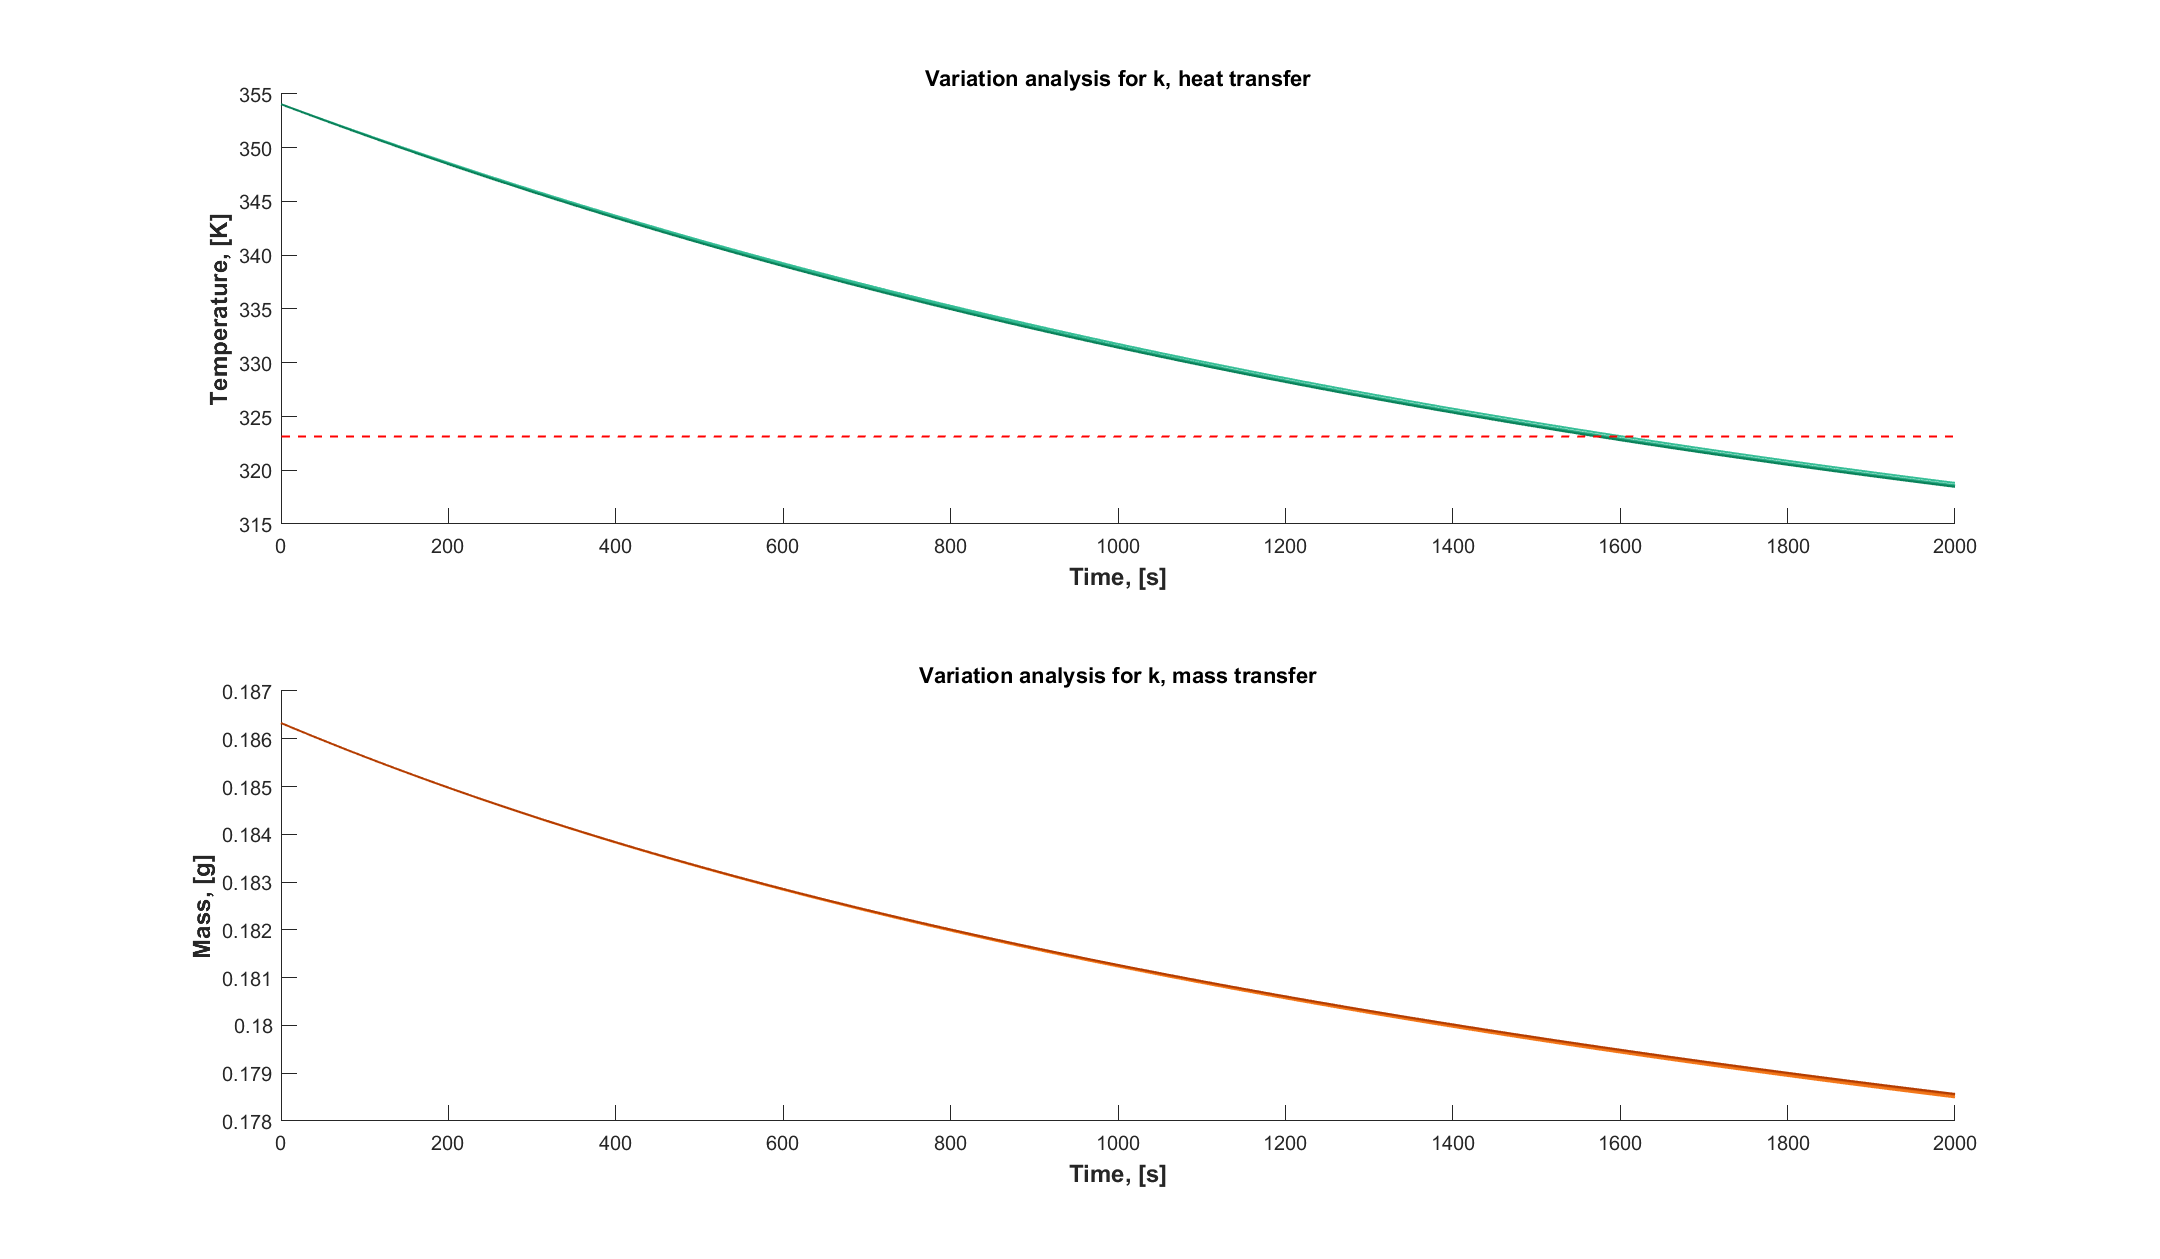
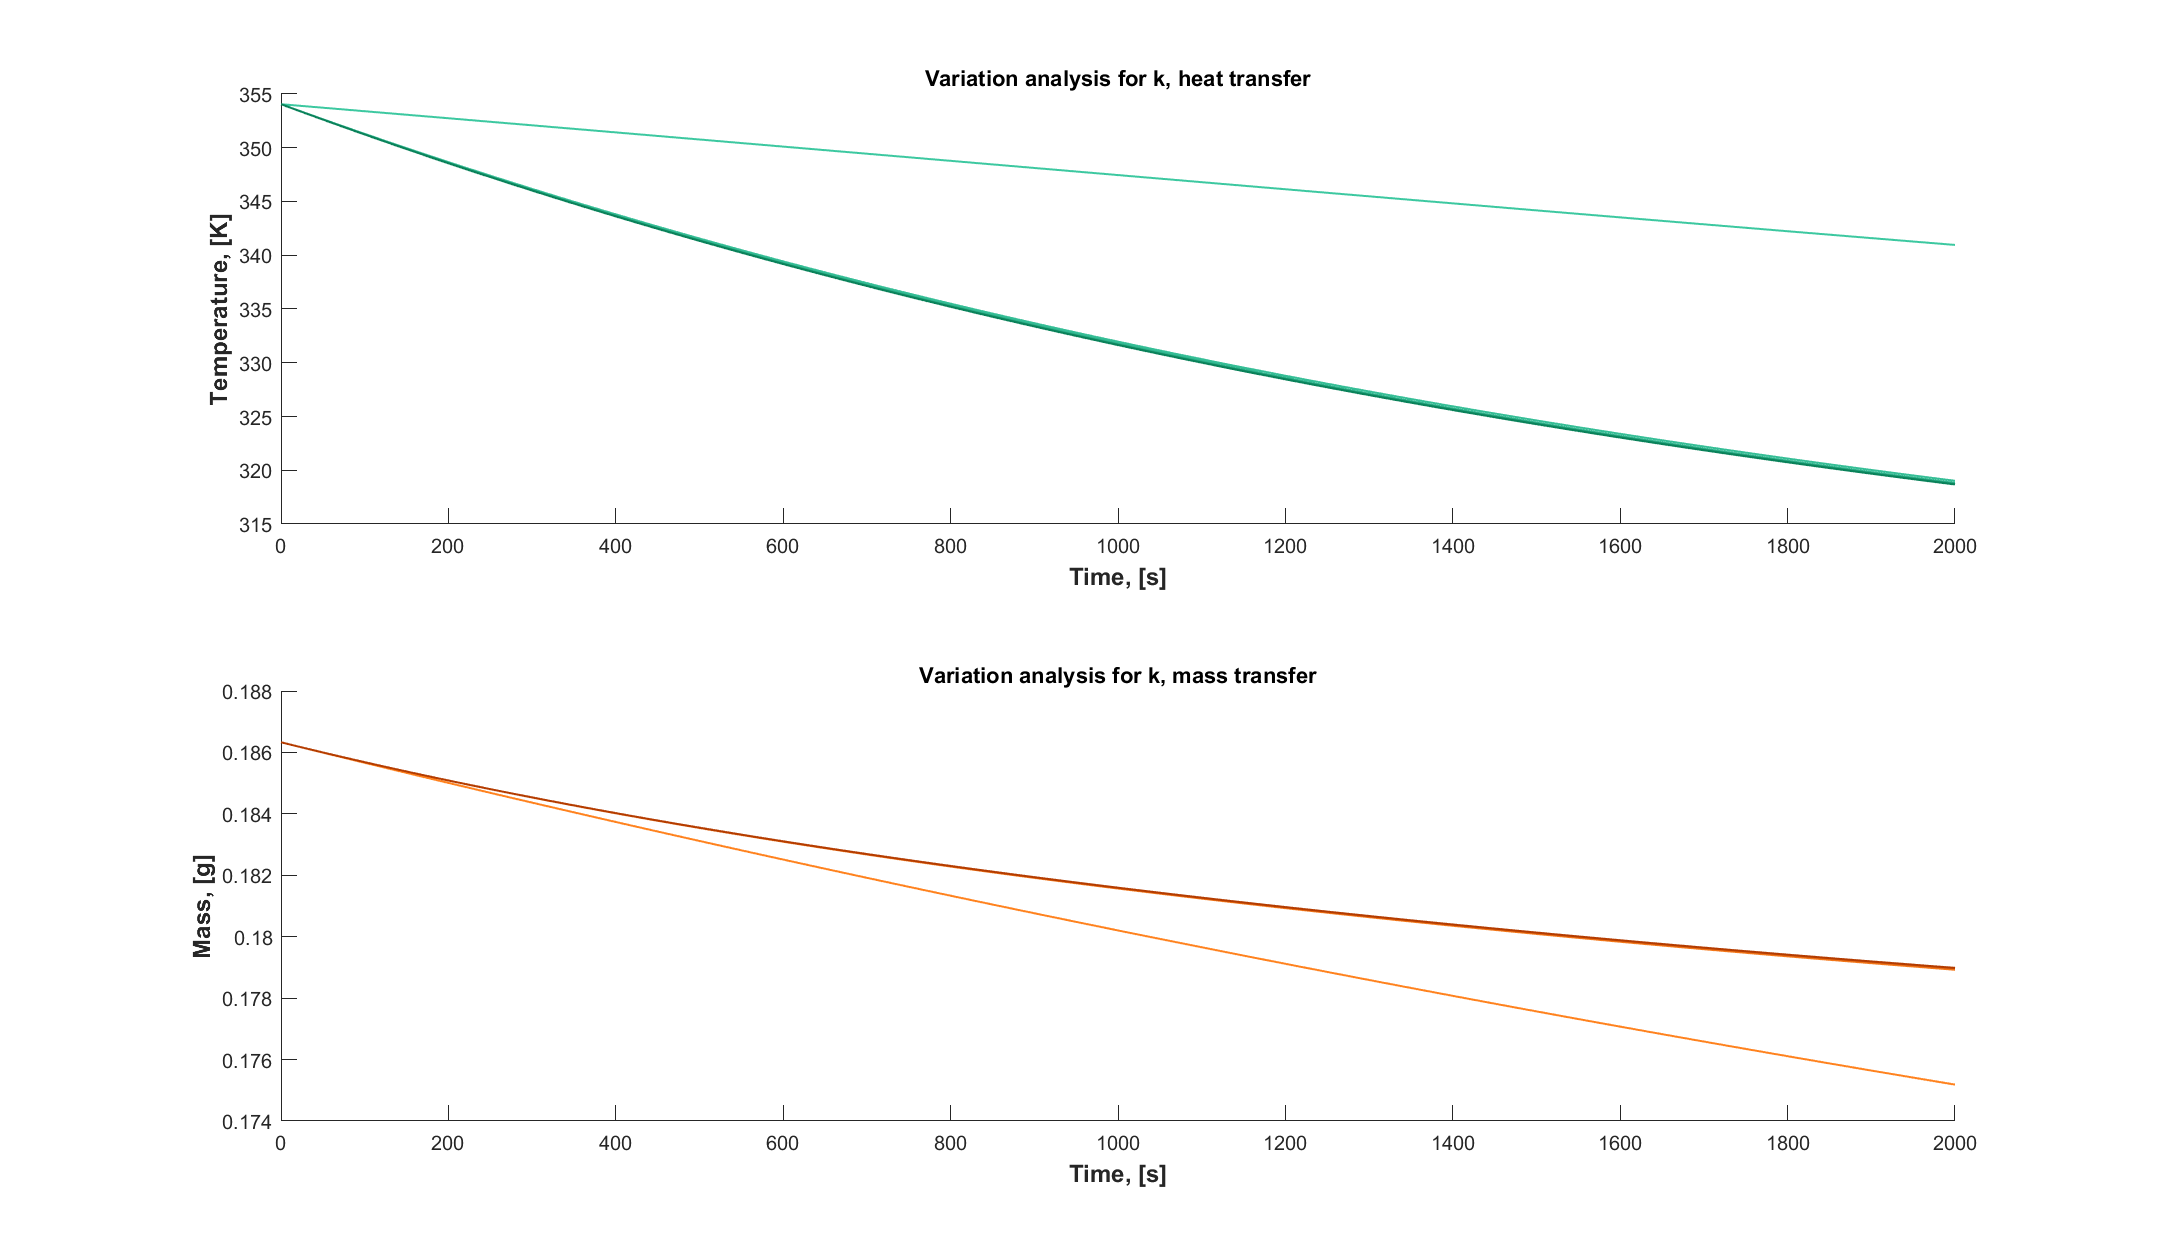
Uppdaterat

diff --git a/matlab/dT_dt_cup.m b/matlab/dT_dt_cup.m
@@ -1,74 +1,34 @@
-function dT_dt = dT_dt_RG2(t,T,It_opt,m0)
-%Variables
-select = It_opt(1);%Constant that will change
-I = It_opt(2);%number of different values of constant
-iter = It_opt(3);%Which iteration of the constant
+function dT_dt = dT_dt_cup(t,T)
+%Variabler
 T_water = T(1);
 m = T(2);
 
-
-%def constants, baseline
-k_glas = 0.033;
-L=95*10^-3;
+%def av konstanter
+k =17.3; %s 628 aluminium, for 100 C;
 T_air = 20.6+273.15;
 beta = betag_v2(T_air);
-
+eps = 0.09;%s.352 Commericial sheet, aluminium, for 100 C
 sigma = 5.67*10^-8;
-eps = 0.95;
-r_outer = 70*10^-3;
-r_inner = 63*10^-3;
+
+r_inner = 70*10^-3/2;
+r_outer = r_inner + 5*10^-3;  %for the mug
+L = 150*10^-6/(r_inner^2*pi);
 D_AB = 2.634/101325;%p_water((T_water+T_air)/2); %ändraaaaaaaa plz
 R = 8.3145;
 M = (1.0079*2 + 16)*10^-3;
 
-Tair_min = 273.15 + 15;
-Tair_max = 273.15 + 25;
-dT = (Tair_max-Tair_min)/I;
 
-rinner_min = 50*10^-3/2;
-rinner_max = 70*10^-3/2;
-drinner = (rinner_max-rinner_min)/I;
-
-router_min = r_inner/2-5*10^-3;
-router_max = 70*10^-3/2;
-drouter = (router_max-router_min)/I;
-
-L_min = 80*10^-3;
-L_max = 105*10^-3;
-dL = (L_max - L_min)/I;
-
-eps_min = 0.5;
-eps_max = 1;
-deps = (eps_max - eps_min)/I;
-
-k_max = 50;
-k_min = 0.1;
-dk = (k_max-k_min)/I;
-
-if select == 1
-    T_air = Tair_min + dT*iter;
-elseif select == 2
-    r_inner = rinner_min + drinner*iter;
-elseif select == 3
-    r_outer = router_min + drouter*iter;
-elseif select == 4
-    L = L_min + dL*iter;
-elseif select == 5
-    eps = eps_min + iter*deps;
-elseif select == 6
-    k = k_min + iter*dk;
-end
-    
-
-beta = betag_v2(T_air);
 A_surf = r_outer*2*pi*L;
 A_top = r_inner^2*pi;
-L_water=m0/(rho_water(273.15+78.6)*2*r_inner*pi);
+
+L_water=125.81*10^-3/(rho_water(273.15+78.6)*2*r_inner*pi);
 
 T0=[T_water-5];%initial guess for T_surf
 options = optimoptions('fsolve','Display','none');
 T_surf=fsolve(@(T_surf)Cond(T_surf,T_water,T_air,L,beta,k),T0,options);
+%eps = 0.032 + (0.35-0.032)/((3000+273.15)-(26 +273.15))*(T_surf-(26+273.15))
 
+%k_c = h_top(T_water,T_air,betag_v2,r_inner)*(Sc_air((T_water + T_air)/2, D_AB)*pr_air(T_air,T_water))^(-2/3)/(cp_water(T_water)*rho_water((T_water+T_air)/2));
 c_surf = p_water(T_air)*0.22/(R*T_air);
 c_bulk = p_water((T_air+T_water)/2)/(R*(T_air+T_water)/2); %sida/kap 499/26, vi hade skrivit bulkkoncentrationen fel. Det är från vattenytan det evaporerar, därmed bör ångtrycket vid vattenytan användas som koncentration
 k_c = kc(T_water,T_air,beta, r_inner,D_AB);
@@ -81,5 +41,9 @@ conv_mass = dHvap_water(T_water)*dm_dt;
 
 dTwater_dt =(-conv_mass-conv_heat -rad)/(rho_water(T_water)*cp_water(T_water)*r_inner*2*pi*L_water);  
 
+
+%(-dTsurf_dt+h_surf*A_surf*(T_surf-T_air) + h_top*A_top*(T_water-T_air)+sigma*eps*A_surf*(T_surf^4 - T_air^4))/(rho_water(T_water)*cp_water(T_water)*r_inner*2*pi*L);
+% q_svett = kc*(cas-cabulk)*dHvap *m
+%rho cp dtwaterdt = konuktion + konvektion + radiation 
 dT_dt = [dTwater_dt;dm_dt];
 end

diff --git a/matlab/test_cup.m b/matlab/test_cup.m
@@ -1,0 +1,32 @@
+clear; clc; clf; close  all
+T_water0 = 90+273.15;
+m0 = 150*10^-3;
+r_outer = 70*10^-3;
+r_inner = 63*10^-3;
+
+
+T0 = [T_water0,m0];%[T_surf0, T_water0,(T_surf0-T_water0)/(r_outer-r_inner)];%T_surf, T_water
+t_span = linspace(0,30000);
+t_h = t_span(end)/3600
+
+
+
+%T-plots
+[t,T] = ode45(@dT_dt_cup,t_span,T0);
+subplot(2,1,1)
+plot(t,T(:,1), LineWidth=1); hold on;
+legend('Model Twater (K)'); 
+temp=T(:,1);
+mass=T(:,2);
+yline(273.15+50, 'r--', LineWidth=1) 
+xlabel('Time, [s]','FontSize',12,'FontWeight','bold')
+ylabel('Temperature, [K]','FontSize',12,'FontWeight','bold')
+
+%mass plots
+subplot(2,1,2)
+plot(t,T(:,2),LineWidth=1); hold on;
+legend('Model mass(g)');
+xlabel('Time, [s]','FontSize',12,'FontWeight','bold')
+ylabel('Mass, [g]','FontSize',12,'FontWeight','bold')
+
+

diff --git a/matlab/dT_dt_RG2.m b/matlab/dT_dt_RG2.m
@@ -10,13 +10,15 @@ m = T(2);
 %def constants, baseline
 k_glas = 0.9;
 k = k_glas;
-sigma = 5.67*10^-8;
-eps = 0.95;
 L=95*10^-3;
 T_air = 20.6+273.15;
+beta = betag_v2(T_air);
+
+sigma = 5.67*10^-8;
+eps = 0.95;
 r_outer = 70*10^-3;
 r_inner = 63*10^-3;
-D_AB = 2.634/101325;
+D_AB = 2.634/101325;%p_water((T_water+T_air)/2); %ändraaaaaaaa plz
 R = 8.3145;
 M = (1.0079*2 + 16)*10^-3;
 
@@ -33,15 +35,15 @@ router_max = 70*10^-3/2;
 drouter = (router_max-router_min)/I;
 
 L_min = 80*10^-3;
-L_max = 105*10^-3;
+L_max = 120*10^-3;
 dL = (L_max - L_min)/I;
 
 eps_min = 0.5;
 eps_max = 1;
 deps = (eps_max - eps_min)/I;
 
-k_max = 50;
-k_min = 0.01;
+k_max = 1;
+k_min = 0.1;
 dk = (k_max-k_min)/I;
 
 if select == 1

diff --git a/matlab/Variation_mug.m b/matlab/Variation_mug.m
@@ -18,7 +18,7 @@ t_span =[0:10000];
 t_h = t_span(end)/3600
 
 selctiontype = [{'T_{air}'}, {'r_{inner}'}, {'r_{outer}'}, {'L'},{'k'},{'epsilon'}];%constants that can change. Choose one of them with 'Select'
-Select = 2; %The constant that will vary. 1 = T_air, 2 = r_inner ect
+Select = 4; %The constant that will vary. 1 = T_air, 2 = r_inner ect
 I = 7; %Number of different values of constant you want to include in the plot
 
 
@@ -41,7 +41,7 @@ Orange_dark = [180,60,0]/255;
 
 
 
-for iter = 1:I
+for iter = 0:I
     Green_grad = @(iter) Green_light + (Green_dark - Green_light)/I*iter;
     Orange_grad = @(iter) Orange_light + (Orange_dark - Orange_light)/I*iter;
 

diff --git a/matlab/test_variation_RG.m b/matlab/test_variation_RG.m
@@ -19,7 +19,7 @@ m0 = S{1,3}*10^-3;
 T0 = [T_water0,m0]; %inital values for the ode
 t_span =linspace(0,2000);% S{:,1};
 selctiontype = [{'T_{air}'}, {'r_{inner}'}, {'r_{outer}'}, {'L'}, {'epsilon'},{'k'}];%constants that can change. Choose one of them with 'Select'
-Select = 5; %The constant that will vary. 1 = T_air, 2 = r_inner ect
+Select = 4; %The constant that will vary. 1 = T_air, 2 = r_inner ect
 I = 7; %Number of different values of constant you want to include in the plot. OBS! If I =m, the plot will have m +1 iterations and lines as it will also plot iter = 0.
 
 

diff --git a/matlab/dT_dt_mug.m b/matlab/dT_dt_mug.m
@@ -8,10 +8,9 @@ m = T(2);
 
 
 %def constants, baseline
-k_glas = 0.78;
-k = k_glas;
+k = 17.3;
 sigma = 5.67*10^-8;
-eps = 0.95;
+eps = 0.09;
 L=95*10^-3;
 T_air = 20.6+273.15;
 r_outer = 70*10^-3;
@@ -33,14 +32,14 @@ router_max = 70*10^-3/2;
 drouter = (router_max-router_min)/I;
 
 L_min = 80*10^-3;
-L_max = 105*10^-3;
+L_max = 150*10^-3;
 dL = (L_max - L_min)/I;
 
 k_max = 50;
 k_min = 0.01;
 dk = (k_max-k_min)/I;
 
-eps_min = 0.2;
+eps_min = 0.033;
 eps_max = .6;
 deps = (eps_max - eps_min)/I;
 
